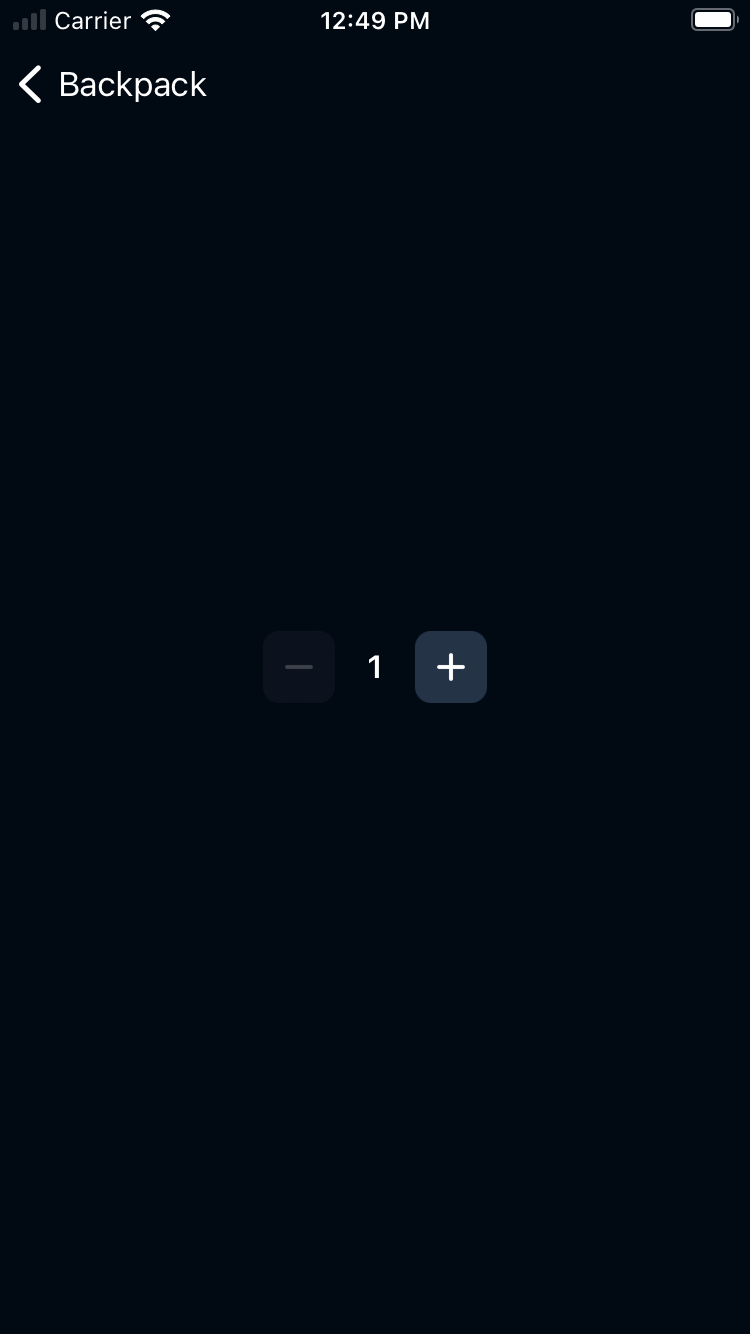
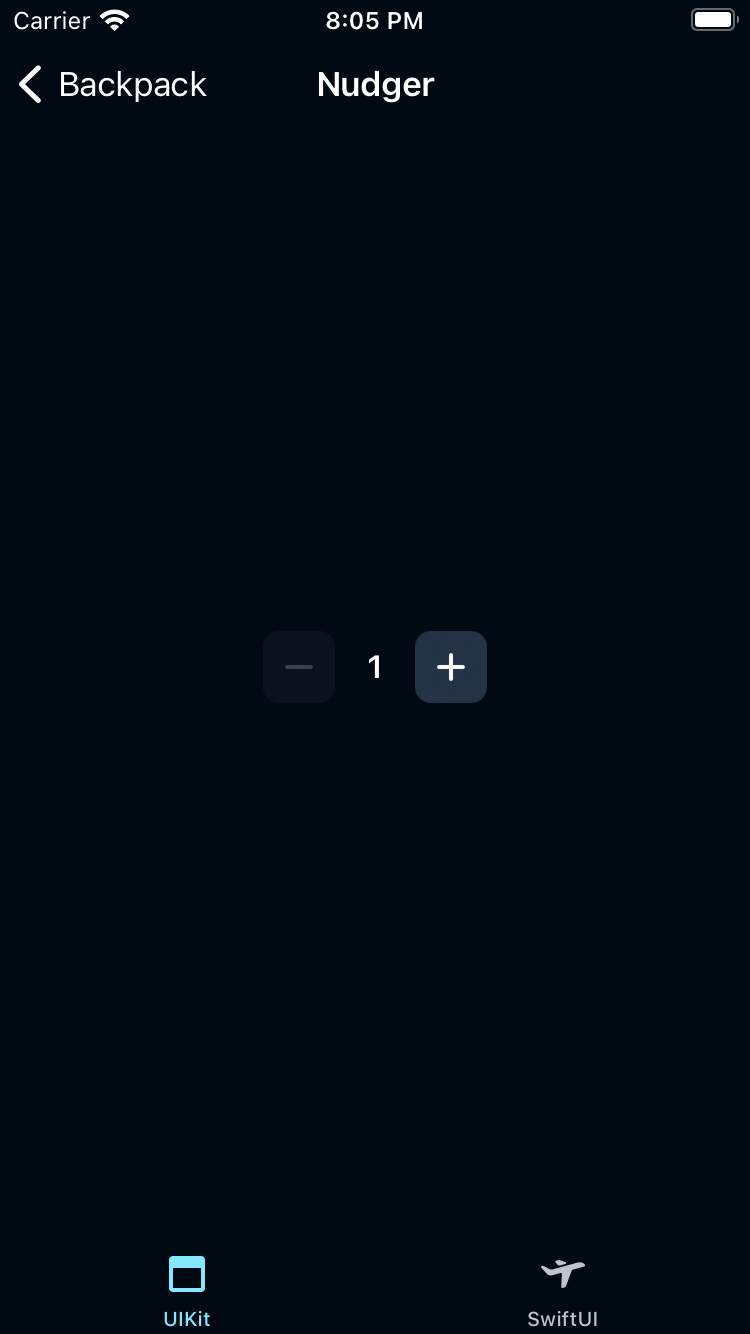
nudger swiftui

diff --git a/Backpack-SwiftUI/Nudger/Classes/BPKNudger.swift b/Backpack-SwiftUI/Nudger/Classes/BPKNudger.swift
@@ -1,0 +1,95 @@
+/*
+ * Backpack - Skyscanner's Design System
+ *
+ * Copyright 2018 Skyscanner Ltd
+ *
+ * Licensed under the Apache License, Version 2.0 (the "License");
+ * you may not use this file except in compliance with the License.
+ * You may obtain a copy of the License at
+ *
+ *   http://www.apache.org/licenses/LICENSE-2.0
+ *
+ * Unless required by applicable law or agreed to in writing, software
+ * distributed under the License is distributed on an "AS IS" BASIS,
+ * WITHOUT WARRANTIES OR CONDITIONS OF ANY KIND, either express or implied.
+ * See the License for the specific language governing permissions and
+ * limitations under the License.
+ */
+
+import SwiftUI
+
+public struct BPKNudger: View {
+
+    @State private var canIncrement = true
+    @State private var canDecrement = true
+    @Binding private var value: Int
+
+    private let accessibilityLabel: String
+    private var minValue: Int
+    private var maxValue: Int
+    private var step: Int
+    
+    /// Creates a `BPKNudger`.
+    /// - Parameters:
+    ///   - value: The value of the `BPKNudger`.
+    ///     Must be between `min` and `max`.
+    ///     If changed, the value will be clamped to be between `min` and `max`.
+    ///   - min: The minimum value of the `BPKNudger`.
+    ///     Must be less than `max`.
+    ///   - max: The maximum value of the `BPKNudger`.
+    ///     Must be greater than `min`.
+    ///   - step: The step value of the `BPKNudger`.
+    ///     Defaults to `1`.
+    public init(value: Binding<Int>, min: Int, max: Int, step: Int = 1, accessibilityLabel: String) {
+        minValue = min
+        maxValue = max
+        self.step = step
+        self._value = value
+        self.accessibilityLabel = accessibilityLabel
+    }
+
+    public var body: some View {
+        HStack(spacing: BPKSpacing.md.value) {
+            BPKButton(icon: .minus, accessibilityLabel: "", enabled: $canDecrement, action: decrement)
+                .buttonStyle(.secondary)
+            BPKText("\(value)", style: .heading5)
+            BPKButton(icon: .plus, accessibilityLabel: "", enabled: $canIncrement, action: increment)
+                .buttonStyle(.secondary)
+        }
+        .accessibilityValue("\(value)")
+        .accessibilityLabel(accessibilityLabel)
+        .onAppear {
+            if value < minValue || value > maxValue {
+                value = max(min(value, maxValue), minValue)
+            }
+            updateButtonStates()
+        }
+    }
+
+    private func updateButtonStates() {
+        canIncrement = value < maxValue
+        canDecrement = value > minValue
+    }
+
+    private func increment() {
+        value = min(value + step, maxValue)
+        UIAccessibility.post(notification: .announcement, argument: "\(value)")
+        updateButtonStates()
+    }
+
+    private func decrement() {
+        value = max(value - step, minValue)
+        UIAccessibility.post(notification: .announcement, argument: "\(value)")
+        updateButtonStates()
+    }
+}
+
+struct BPKNudger_Previews: PreviewProvider {
+    static var previews: some View {
+        VStack {
+            BPKNudger(value: .constant(0), min: 0, max: 10, accessibilityLabel: "")
+            BPKNudger(value: .constant(5), min: 0, max: 10, accessibilityLabel: "")
+            BPKNudger(value: .constant(10), min: 0, max: 10, accessibilityLabel: "")
+        }
+    }
+}

diff --git a/Backpack-SwiftUI/Tests/Nudger/BPKNudgerTests.swift b/Backpack-SwiftUI/Tests/Nudger/BPKNudgerTests.swift
@@ -1,0 +1,42 @@
+/*
+ * Backpack - Skyscanner's Design System
+ *
+ * Copyright 2018 Skyscanner Ltd
+ *
+ * Licensed under the Apache License, Version 2.0 (the "License");
+ * you may not use this file except in compliance with the License.
+ * You may obtain a copy of the License at
+ *
+ *   http://www.apache.org/licenses/LICENSE-2.0
+ *
+ * Unless required by applicable law or agreed to in writing, software
+ * distributed under the License is distributed on an "AS IS" BASIS,
+ * WITHOUT WARRANTIES OR CONDITIONS OF ANY KIND, either express or implied.
+ * See the License for the specific language governing permissions and
+ * limitations under the License.
+ */
+
+import XCTest
+import SwiftUI
+@testable import Backpack_SwiftUI
+
+class BPKNudgerTests: XCTestCase {
+    
+    func test_validValue() {
+        assertSnapshot(
+            BPKNudger(value: .constant(1), min: 0, max: 10, step: 1, accessibilityLabel: "")
+        )
+    }
+
+    func test_smallerValue() {
+        assertSnapshot(
+            BPKNudger(value: .constant(0), min: 1, max: 10, step: 1, accessibilityLabel: "")
+        )
+    }
+
+    func test_biggerValue() {
+        assertSnapshot(
+            BPKNudger(value: .constant(11), min: 1, max: 10, step: 1, accessibilityLabel: "")
+        )
+    }
+}

diff --git a/Example/Backpack/SwiftUI/Components/Nudger/NudgerExampleView.swift b/Example/Backpack/SwiftUI/Components/Nudger/NudgerExampleView.swift
@@ -1,0 +1,35 @@
+//
+/*
+ * Backpack - Skyscanner's Design System
+ *
+ * Copyright © 2022 Skyscanner Ltd. All rights reserved.
+ *
+ * Licensed under the Apache License, Version 2.0 (the "License");
+ * you may not use this file except in compliance with the License.
+ * You may obtain a copy of the License at
+ *
+ *   http://www.apache.org/licenses/LICENSE-2.0
+ *
+ * Unless required by applicable law or agreed to in writing, software
+ * distributed under the License is distributed on an "AS IS" BASIS,
+ * WITHOUT WARRANTIES OR CONDITIONS OF ANY KIND, either express or implied.
+ * See the License for the specific language governing permissions and
+ * limitations under the License.
+ */
+
+import SwiftUI
+import Backpack_SwiftUI
+
+struct NudgerExampleView: View {
+    @State private var value = 0
+    
+    var body: some View {
+        BPKNudger(value: $value, min: 1, max: 10, step: 1, accessibilityLabel: "")
+    }
+}
+
+struct NudgerExampleView_Previews: PreviewProvider {
+    static var previews: some View {
+        NudgerExampleView()
+    }
+}

diff --git a/Example/Backpack/Utils/FeatureStories/ComponentCells.swift b/Example/Backpack/Utils/FeatureStories/ComponentCells.swift
@@ -202,10 +202,18 @@ extension ComponentCellsProvider {
         )
     }
     private func nudger() -> CellDataSource {
-        PresentableCellDataSource.custom(
+        ComponentCellDataSource(
             title: "Nudger",
-            customController: { NudgerViewController() },
-            showPresentable: show(presentable:)
+            tabs: [
+                .uikit(presentable: CustomPresentable(
+                    generateViewController: {
+                        NudgerViewController()
+                    })),
+                .swiftui(presentable: CustomPresentable(generateViewController: {
+                    ContentUIHostingController(NudgerExampleView())
+                }))
+            ],
+            showChildren: { showComponent(title: "Nudger", tabs: $0) }
         )
     }
     private func overlayViews() -> CellDataSource {

diff --git a/Example/Backpack Screenshot/SwiftUIScreenshots.swift b/Example/Backpack Screenshot/SwiftUIScreenshots.swift
@@ -181,5 +181,11 @@ class SwiftUIScreenshots: BackpackSnapshotTestCase {
             switchTab(title: "SwiftUI")
             saveScreenshot(component: "panel", scenario: "default", userInterfaceStyle: userInterfaceStyle)
         }
+        
+        navigate(title: "Nudger") {
+            switchTab(title: "SwiftUI")
+            saveScreenshot(component: "nudger", scenario: "default",
+                           userInterfaceStyle: userInterfaceStyle)
+        }
     }
 }

diff --git a/Backpack-SwiftUI/Nudger/README.md b/Backpack-SwiftUI/Nudger/README.md
@@ -1,0 +1,21 @@
+# Backpack-SwiftUI/Nudger
+
+[![Cocoapods](https://img.shields.io/cocoapods/v/Backpack-SwiftUI.svg?style=flat)](hhttps://cocoapods.org/pods/Backpack-SwiftUI)
+[![class reference](https://img.shields.io/badge/Class%20reference-iOS-blue)](https://backpack.github.io/ios/versions/latest/swiftui/Structs/BPKNudger.html)
+[![view on Github](https://img.shields.io/badge/Source%20code-GitHub-lightgrey)](https://github.com/Skyscanner/backpack-ios/tree/main/Backpack-SwiftUI/Nudger)
+
+## Default
+
+| Day | Night |
+| --- | --- |
+| <img src="../../screenshots/iPhone-swiftui_nudger___default_lm.png" alt="" width="375" /> |<img src="../../screenshots/iPhone-swiftui_nudger___default_dm.png" alt="" width="375" /> |
+
+# Usage
+
+an adjustable control that allows a user to select a numerical value between a min/max determined by the consumer.
+
+```swift
+@State var value = 0
+
+BPKNudger(value: $value, min: 1, max: 10, step: 1, accessibilityLabel: "")
+```
